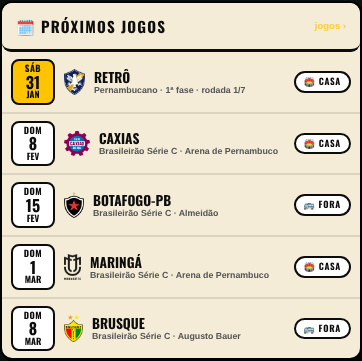
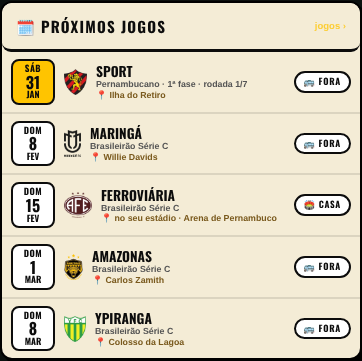
Brasil Oficial: economia real — TV pela divisão e porte do clube, prêmio pra todo acesso/queda real, campeões de cada série, e toda competição pagando por fase (estadual, Supercopa Rei, Copa do Brasil, Libertadores, Sul-Americana, Intercontinental) com linha própria no extrato; Próximos jogos mostra
Claude-Session: https://claude.ai/code/session_018Ap1zPCMVL9XeZJN3u93ZA

diff --git a/src/escalacao/pyramidseason.tsx b/src/escalacao/pyramidseason.tsx
@@ -119,6 +119,7 @@ import sedeObra from './img/sede-obra-loja.webp'
 import sedeCarreata from './img/sede-carreata.webp'
 import estadioNoite from './img/online-estadio-v25.webp'
 import { estadioDoClube } from './estadios-oficial'
+import { tvOficial, CAMPEAO_OFICIAL, ACESSO_OFICIAL, QUEDA_OFICIAL, ESTADUAL_OFICIAL, SUPERCOPA_REI_OFICIAL, LIBERTA_OFICIAL, SULA_OFICIAL, INTER_OFICIAL, CDB_OFICIAL, cdbOficialPorFim } from './economia-oficial'
 import sedeNoite from './img/sede-noite.webp'
 import sedeClube from './img/sede-clube.webp'
 import { FestaCampeao, TunelFinal, Trofeu, type CompId, type DestaqueFesta } from './competicoes-visual' // 🏆 festa do campeão + túnel da final na carreira (24/10) // 🛡 brasão do clube (desenhado por código, do NOME)
@@ -699,6 +700,46 @@ export function seasonRewards(tables: Record<Div, SimTeam[]>): Record<number, nu
     out[t.teamId] = delta
   })
   return out
+}
+// 💰 BRASIL OFICIAL · LIGA (18/11, `economia-oficial.ts`): campeão de cada série (o REAL: a C e a D têm final) + TODO clube que sobe
+// ganha o acesso e todo que cai desconta — pelo formato real, nunca o "top 4" da pirâmide inventada. Só clube de gente tem caixa.
+// `linhas` = o nome de cada prêmio no extrato (o dinheiro está em `rewards`; a queda fica só em `rewards`, que é desconto).
+export type PremioLinha = { mgr: number; coins: number; txt: string }
+export function premiosLigaOficial(tables: Record<Div, SimTeam[]>, fases: FasesOficiais, newPl: Record<string, string>, en: boolean): { rewards: Record<number, number>; linhas: PremioLinha[] } {
+  const rewards: Record<number, number> = {}, linhas: PremioLinha[] = []
+  const RANK: Record<string, number> = { A: 4, B: 3, C: 2, D: 1 }
+  const campeao: Record<string, string | undefined> = { A: tables.A?.[0]?.name, B: tables.B?.[0]?.name, C: fases.C.campeao, D: fases.D.campeao }
+  const serie = (d: string) => en ? `Série ${d}` : `Série ${d}`
+  for (const d of ['A', 'B', 'C', 'D'] as Div[]) for (const t of tables[d] ?? []) {
+    if (!t.human || t.teamId < 0) continue
+    const add = (v: number, txt?: string) => { rewards[t.teamId] = (rewards[t.teamId] ?? 0) + v; if (txt && v > 0) linhas.push({ mgr: t.teamId, coins: v, txt }) }
+    if (campeao[d] === t.name) add(CAMPEAO_OFICIAL[d] ?? 0, en ? `🏆 ${serie(d)} champions` : `🏆 Campeão da ${serie(d)}`)
+    const nd = newPl[teamKey(t)]
+    const r0 = RANK[d] ?? 0, r1 = nd ? (RANK[nd] ?? 0) : r0
+    if (r1 > r0) add(ACESSO_OFICIAL[d] ?? 0, en ? `🚀 Promotion to ${serie(nd!)}` : `🚀 Acesso pra ${serie(nd!)}`)
+    else if (r1 < r0 && nd) add(-(QUEDA_OFICIAL[d] ?? 0))
+  }
+  return { rewards, linhas }
+}
+// 🇧🇷 Copa do Brasil do Oficial: cada fase vale algo (contado do fim — `cdbOficialPorFim`), campeão 60; o artilheiro segue com o
+// bônus de sempre (`CB_SCORER_BONUS`, a linha dele sai de `artilheirosDaTemporada`)
+export function premiosCdbOficial(r: CopaBrasilResult, en: boolean): { rewards: Record<number, number>; linhas: PremioLinha[] } {
+  const rewards: Record<number, number> = {}, linhas: PremioLinha[] = []
+  const n = r.rounds.length
+  const fundo = new Map<number, { t: SimTeam; i: number }>()
+  const put = (t: SimTeam, i: number) => { if (!t.human || t.teamId < 0) return; const f = fundo.get(t.teamId); if (!f || i > f.i) fundo.set(t.teamId, { t, i }) }
+  for (const tie of r.round64?.ties ?? []) { put(tie.a, -1); put(tie.b, -1) }
+  r.rounds.forEach((rd, i) => { for (const tie of rd.ties) { put(tie.a, i); put(tie.b, i) } })
+  for (const [id, { t, i }] of fundo) {
+    const campeao = r.champion?.teamId === t.teamId && r.champion?.human
+    const v = campeao ? CDB_OFICIAL.campeao : cdbOficialPorFim(n - 1 - i)
+    const fase = campeao ? (en ? 'champions' : 'campeão') : i === n - 1 ? (en ? 'runners-up' : 'vice') : i >= 0 ? (en ? `out in the ${r.rounds[i].name}` : `caiu na ${r.rounds[i].name}`) : (en ? 'out in the first round' : 'caiu na 1ª fase')
+    rewards[id] = (rewards[id] ?? 0) + v
+    linhas.push({ mgr: id, coins: v, txt: `🇧🇷 Copa do Brasil · ${fase}` })
+  }
+  const ts = r.topScorer
+  if (ts?.human && ts.teamId >= 0) rewards[ts.teamId] = (rewards[ts.teamId] ?? 0) + CB_SCORER_BONUS
+  return { rewards, linhas }
 }
 // caixa-base por divisão (clubes de cima mais ricos) + os lucros das vendas do
 // mercado + prêmios. Também usado pra "curar" salas sem caixa.
@@ -2057,9 +2098,13 @@ export function computeIntercontinentalCarreira(libertadores: string, world: Rec
   return out && res ? { resultado: res, rounds: out.rounds } : null
 }
 /** 💰 prêmio da Intercontinental: a régua do Mundial da carreira internacional (vice +10 · campeão +25) */
-export function premioIntercontinental(res: ResultadoIntercontinental, nome: string): number {
-  return res.campeao === nome ? 25 : res.vice === nome ? 10 : 0
+// 💰 18/11: a régua nova do Oficial (`economia-oficial.ts`) — participou 10 · vice 20 · campeão 40
+export function premioIntercontinentalDet(res: ResultadoIntercontinental, nome: string): { v: number; fase: [string, string] } | null {
+  if (res.campeao === nome) return { v: INTER_OFICIAL.campeao, fase: ['campeão', 'champions'] }
+  if (res.vice === nome) return { v: INTER_OFICIAL.vice, fase: ['vice', 'runners-up'] }
+  return { v: INTER_OFICIAL.participou, fase: ['participou', 'took part'] }
 }
+export function premioIntercontinental(res: ResultadoIntercontinental, nome: string): number { return premioIntercontinentalDet(res, nome)?.v ?? 0 }
 export function computeSulaCarreira(vagas: VagasSula, daLiberta: { grupos: string[]; playoff: string[] }, world: Record<Div, SimTeam[]>, seed: number, seasonNo: number, capElite = 1.2, realGoals = false, m2On = false, versao?: VersaoM2): { resultado: ResultadoSula; rounds: CopaRound[] } | null {
   const fab = fabricaTimesOficiais(world, seed)
   if (!fab) return null
@@ -2083,22 +2128,39 @@ function guardaEstadualPag(seed: number, temporada: number, p: number) {
   try { localStorage.setItem(EST_PAG_KEY, JSON.stringify({ seed, t: temporada, p })) } catch { /* sem espaço: só não lembra */ }
 }
 export const ART_SULA_OFICIAL = 20
-export function premioSula(res: ResultadoSula, nome: string): number {
-  if (!res.classificacao.includes(nome)) return 0
-  if (res.campeao === nome) return 50
-  if (res.vice === nome) return 25
+// 💰 18/11: régua nova do Oficial — 1ª fase 3 · grupos 5 · playoffs 6 · oitavas 7 · quartas 10 · semi 15 · vice 25 · campeão 45
+export function premioSulaDet(res: ResultadoSula, nome: string): { v: number; fase: [string, string] } | null {
+  if (!res.classificacao.includes(nome)) return null
+  const S = SULA_OFICIAL
+  if (res.campeao === nome) return { v: S.campeao, fase: ['campeão', 'champions'] }
+  if (res.vice === nome) return { v: S.vice, fase: ['vice', 'runners-up'] }
   const caiuEm = (fase: string) => !!res.fases.find(f => f.nome === fase)?.confrontos.some(c => (c.a === nome || c.b === nome) && c.vencedor !== nome)
-  return caiuEm('Semifinal') ? 16 : caiuEm('Quartas de final') ? 10 : caiuEm('Oitavas de final') ? 6 : 4
+  const nosGrupos = !!res.fases.find(f => f.nome === 'Fase de grupos')?.tabelas.some(t => t.tabela.some(l => l.time === nome))
+  return caiuEm('Semifinal') ? { v: S.semi, fase: ['caiu na semifinal', 'out in the semi-final'] }
+    : caiuEm('Quartas de final') ? { v: S.quartas, fase: ['caiu nas quartas', 'out in the quarter-finals'] }
+    : caiuEm('Oitavas de final') ? { v: S.oitavas, fase: ['caiu nas oitavas', 'out in the round of 16'] }
+    : caiuEm('Playoffs') ? { v: S.playoffs, fase: ['caiu nos playoffs', 'out in the play-offs'] }
+    : nosGrupos ? { v: S.grupos, fase: ['caiu na fase de grupos', 'out in the group stage'] }
+    : { v: S.pre, fase: ['caiu na 1ª fase', 'out in the first round'] }
 }
+export function premioSula(res: ResultadoSula, nome: string): number { return premioSulaDet(res, nome)?.v ?? 0 }
 /** 💰 prêmio da Libertadores do Brasil Oficial pra um clube: a MESMA régua por etapa da Libertadores da carreira internacional
  *  (`summarizeInternationalCampaign`, Diego 01/10): participou 6 · oitavas 10 · quartas 14 · semi 20 · vice 30 · campeão 60. */
-export function premioLibertadores(res: ResultadoLiberta, nome: string): number {
-  if (!res.classificacao.includes(nome)) return 0
-  if (res.campeao === nome) return 60
-  if (res.vice === nome) return 30
+// 💰 18/11: régua nova do Oficial — pré 4 · grupos 8 · oitavas 12 · quartas 18 · semi 25 · vice 40 · campeão 80
+export function premioLibertadoresDet(res: ResultadoLiberta, nome: string): { v: number; fase: [string, string] } | null {
+  if (!res.classificacao.includes(nome)) return null
+  const L = LIBERTA_OFICIAL
+  if (res.campeao === nome) return { v: L.campeao, fase: ['campeão', 'champions'] }
+  if (res.vice === nome) return { v: L.vice, fase: ['vice', 'runners-up'] }
   const caiuEm = (fase: string) => !!res.fases.find(f => f.nome === fase)?.confrontos.some(c => (c.a === nome || c.b === nome) && c.vencedor !== nome)
-  return caiuEm('Semifinal') ? 20 : caiuEm('Quartas de final') ? 14 : caiuEm('Oitavas de final') ? 10 : 6
+  const nosGrupos = !!res.fases.find(f => f.nome === 'Fase de grupos')?.tabelas.some(t => t.tabela.some(l => l.time === nome))
+  return caiuEm('Semifinal') ? { v: L.semi, fase: ['caiu na semifinal', 'out in the semi-final'] }
+    : caiuEm('Quartas de final') ? { v: L.quartas, fase: ['caiu nas quartas', 'out in the quarter-finals'] }
+    : caiuEm('Oitavas de final') ? { v: L.oitavas, fase: ['caiu nas oitavas', 'out in the round of 16'] }
+    : nosGrupos ? { v: L.grupos, fase: ['caiu na fase de grupos', 'out in the group stage'] }
+    : { v: L.pre, fase: ['caiu na pré-Libertadores', 'out in the qualifying rounds'] }
 }
+export function premioLibertadores(res: ResultadoLiberta, nome: string): number { return premioLibertadoresDet(res, nome)?.v ?? 0 }
 function computeCompeticaoOficial(cfg: { nome: string; prefixo: string; tag: string; sal: number; slot: number; sim: (joga: Joga, pen: Penaltis) => ResultadoEstadual | null }, world: Record<Div, SimTeam[]>, seed: number, seasonNo: number, capElite = 1.2, realGoals = false, lineups: RoundLineups = {}, m2On = false, versao?: VersaoM2): { resultado: ResultadoEstadual; rounds: CopaRound[] } | null {
   const fab = fabricaTimesOficiais(world, seed)
   if (!fab) return null
@@ -3108,7 +3170,9 @@ function TVContrato({ div, clube, foco, onFocoFim }: { div: string; clube: strin
   const [brilho, setBrilho] = useState(false) // ✨ destaque de chegada (veio do banner)
   const cardRef = useRef<HTMLDivElement>(null)
   const temporada = state.seasonNo ?? 1
-  const cotaDiv = TV_DEGRAUS.find(([d]) => d === div)?.[1] ?? 0
+  // 🇧🇷 18/11: no Oficial a escada é D·C·B·A com o valor do PORTE do seu clube (a mesma régua que paga)
+  const degraus: [string, number][] = state.oficial ? (['D', 'C', 'B', 'A'] as const).map(d => [d, tvOficial(d, clube)]) : TV_DEGRAUS
+  const cotaDiv = degraus.find(([d]) => d === div)?.[1] ?? 0
   // 🛟 SÓ CARREIRA SOLO (bug pego em 23/08, conferindo o caso do amigo do Diego):
   // este card também renderiza na CARREIRA ONLINE, mas o crédito (TV_EXTRA_CREDIT)
   // é recusado pelo reducer no online — e o `tv_resgatar` já teria marcado a linha
@@ -3187,7 +3251,7 @@ function TVContrato({ div, clube, foco, onFocoFim }: { div: string; clube: strin
       <div style={{ padding: '11px 12px' }}>
         {sec(tr('🖋 Seu contrato — paga sozinho, todo fim de temporada', '🖋 Your deal — pays by itself, every end of season'))}
         <div style={{ display: 'flex', gap: 5, marginBottom: 8 }}>
-          {TV_DEGRAUS.map(([d, v]) => {
+          {degraus.map(([d, v]) => {
             const eu = d === div
             return (
               <div key={d} style={{ flex: 1, textAlign: 'center', border: `2.5px solid ${eu ? INK : 'rgba(12,12,12,.25)'}`, borderRadius: 10, padding: '4px 2px', background: eu ? GOLD : '#FBF6E9', boxShadow: eu ? `2px 2px 0 ${INK}` : undefined, opacity: eu ? 1 : .7 }}>
@@ -10220,8 +10284,22 @@ export function PyramidSeasonScreen() {
   useEffect(() => {
     if (!estadualOn || copaRound < preRounds.length) return
     const r = estadualCalc?.resultado
+    // 💰 18/11: o que o seu clube ganhou na pré-temporada, com o nome de cada prêmio (cai no caixa na hora)
+    const premios: { coins: number; txt: string }[] = []
+    const eu = meuNomeLib, en = getLang() === 'en'
+    const sr = supercopaRei?.ties[0]
+    if (sr && (sr.a.name === eu || sr.b.name === eu)) {
+      const ganhou = (sr.win === 'a' ? sr.a : sr.b).name === eu
+      premios.push({ coins: ganhou ? SUPERCOPA_REI_OFICIAL.campeao : SUPERCOPA_REI_OFICIAL.vice, txt: `🏆 Supercopa Rei · ${ganhou ? (en ? 'champions' : 'campeão') : (en ? 'runners-up' : 'vice')}` })
+    }
+    if (r && r.classificacao.includes(eu)) {
+      const caiuSemi = r.fases.some(f => /Semi/i.test(f.nome) && f.confrontos.some(c => (c.a === eu || c.b === eu) && c.vencedor !== eu))
+      const E = ESTADUAL_OFICIAL, nomeE = NOME_ESTADUAL[estadualNome!] ?? estadualNome!
+      const [v, fase] = r.campeao === eu ? [E.campeao, en ? 'champions' : 'campeão'] : r.vice === eu ? [E.vice, en ? 'runners-up' : 'vice'] : caiuSemi ? [E.semi, en ? 'semi-finalist' : 'semifinal'] : [E.participou, en ? 'took part' : 'participou']
+      premios.push({ coins: v as number, txt: `🏟 ${nomeE} · ${fase}` })
+    }
     // (sem estadual no modo, a marca vale pra pré-temporada: a Supercopa já foi jogada)
-    dispatch({ type: 'ESTADUAL_FEITO', estadual: { temporada: state.seasonNo ?? 1, nome: r ? estadualNome! : '', campeao: r?.campeao ?? '', vice: r?.vice ?? '', caem: r?.caem ?? [], classificacao: r?.classificacao ?? [] } })
+    dispatch({ type: 'ESTADUAL_FEITO', premios, estadual: { temporada: state.seasonNo ?? 1, nome: r ? estadualNome! : '', campeao: r?.campeao ?? '', vice: r?.vice ?? '', caem: r?.caem ?? [], classificacao: r?.classificacao ?? [] } })
     setEstadualOn(false); setCopaRound(0)
   }, [estadualOn, preRounds, copaRound]) // eslint-disable-line react-hooks/exhaustive-deps
   const copaFinished = done && (!copa || nCopaRounds === 0 || copaRound >= nCopaRounds)
@@ -10561,9 +10639,12 @@ export function PyramidSeasonScreen() {
     const conquistas = conquistasDaTemporada(copaBrOk && copaBR ? null : copa, copaBrOk && copaBR ? copaBR : null, copaBrOk && copaBR ? supercopaTie : null) // 🎯 metas do Master
     // 🏆 Brasil Oficial: o prêmio da Libertadores (só do seu clube, que é quem tem caixa) entra junto
     const lib: Record<number, number> = {}
-    if (libertaMinha && libertaCalc) { const v = premioLibertadores(libertaCalc.resultado, meuNomeLib); if (v) lib[youId] = v }
-    if (sulaMinha && sulaCalc) { const v = premioSula(sulaCalc.resultado, meuNomeLib); if (v) lib[youId] = (lib[youId] ?? 0) + v }
-    if (interMinha && interCalc) { const v = premioIntercontinental(interCalc.resultado, meuNomeLib); if (v) lib[youId] = (lib[youId] ?? 0) + v }
+    const en = getLang() === 'en'
+    // 💰 18/11: no Oficial cada prêmio de competição tem LINHA PRÓPRIA no extrato ("🌎 Libertadores · caiu nas quartas")
+    const linhaComp = (emoji: string, nomeC: string, d: { v: number; fase: [string, string] } | null) => { if (!d?.v) return; lib[youId] = (lib[youId] ?? 0) + d.v; artilheiros.push({ mgr: youId, coins: d.v, txt: `${emoji} ${nomeC} · ${en ? d.fase[1] : d.fase[0]}` }) }
+    if (libertaMinha && libertaCalc) linhaComp('🌎', 'Libertadores', premioLibertadoresDet(libertaCalc.resultado, meuNomeLib))
+    if (sulaMinha && sulaCalc) linhaComp('🌎', en ? 'Sudamericana' : 'Sul-Americana', premioSulaDet(sulaCalc.resultado, meuNomeLib))
+    if (interMinha && interCalc) linhaComp('🌐', 'Intercontinental', premioIntercontinentalDet(interCalc.resultado, meuNomeLib))
     // 🥇 artilheiro da Libertadores (30 🪙) e da Sul-Americana (20 🪙) — Diego 16/11 *"Sim"*; só clube de gente tem caixa
     for (const [lista, moedas, nomeC] of [[conmebolScorers.liberta, ART_LIBERTA_OFICIAL, 'Libertadores'], [conmebolScorers.sula, ART_SULA_OFICIAL, getLang() === 'en' ? 'Sudamericana' : 'Sul-Americana']] as const) {
       const a = [...lista].sort((x, y) => y.goals - x.goals || x.name.localeCompare(y.name))[0]
@@ -10572,7 +10653,14 @@ export function PyramidSeasonScreen() {
       const g = getLang() === 'en' ? `${a.goals} goal${a.goals === 1 ? '' : 's'}` : `${a.goals} gol${a.goals === 1 ? '' : 's'}`
       artilheiros.push({ mgr: a.teamId, coins: moedas, txt: getLang() === 'en' ? `🥇 Top scorer of the ${nomeC}: ${a.name} (${g})` : `🥇 Artilheiro da ${nomeC}: ${a.name} (${g})` })
     }
-    dispatch({ type: 'CLOSE_SEASON_BOOKS', rewards: mrg(mrg(mrg(seasonRewards(tables), sb.rewards), cr.rewards), lib), stadiumOcc, finalPos, artilheiros, conquistas })
+    // 🇧🇷 Oficial: liga pelo formato REAL (campeão de cada série, todo acesso, toda queda) e Copa do Brasil fase a fase (18/11)
+    let liga = seasonRewards(tables), copaR = cr.rewards
+    if (state.oficial && oficialEfetivo) {
+      const lo = premiosLigaOficial(tables, oficialEfetivo, promocoesOficial(tables, oficialEfetivo, state.seed, clubesSemDivisao()), en)
+      liga = lo.rewards; artilheiros.unshift(...lo.linhas)
+      if (copaBR) { const co = premiosCdbOficial(copaBR, en); copaR = co.rewards; artilheiros.push(...co.linhas) }
+    }
+    dispatch({ type: 'CLOSE_SEASON_BOOKS', rewards: mrg(mrg(mrg(liga, sb.rewards), copaR), lib), stadiumOcc, finalPos, artilheiros, conquistas })
     // eslint-disable-next-line react-hooks/exhaustive-deps
   }, [copaFinished, state.booksSeason, state.seasonNo])
   // 🏛 MULTICLUBES: momento SEGURO pra trocar = nenhuma rodada nem Copa animando na
@@ -12481,7 +12569,8 @@ export function PyramidSeasonScreen() {
           const est = ehPaginaEstadual(pg.name)
           const partes = est ? pg.name.slice(ESTADUAL_PREFIXO.length).split(' · ') : [pg.name]
           const nome = est ? (NOME_ESTADUAL[partes[0]] ?? partes[0]) : pg.name
-          agenda.push({ dia: diaPreTemporada(sn), comp: [nome, nome], fase: est ? partes.slice(1).join(' · ') : undefined, ...advDe(tie.a, tie.b), arte: 'copaBr' })
+          const ld = advDe(tie.a, tie.b)
+          agenda.push({ dia: diaPreTemporada(sn), comp: [nome, nome], fase: est ? partes.slice(1).join(' · ') : undefined, onde: state.oficial ? estadioDoClube(ld.casa ? euNome : ld.adv).nome : undefined, ...ld, arte: 'copaBr' })
         }
       }
       // ⚽ a liga: os próximos jogos da fase que está correndo
@@ -12492,7 +12581,7 @@ export function PyramidSeasonScreen() {
           const par = parDaRodada(r)
           if (!par) continue
           const lado = advDe(par[0], par[1])
-          agenda.push({ dia: diaDaRodada(sn, r), comp: ligaNome, ...lado, fase: state.oficial ? estadioDoClube(lado.casa ? euNome : lado.adv).nome : undefined }) // 🏟 no Oficial, o estádio do jogo
+          agenda.push({ dia: diaDaRodada(sn, r), comp: ligaNome, ...lado, onde: state.oficial ? estadioDoClube(lado.casa ? euNome : lado.adv).nome : undefined }) // 🏟 no Oficial, ONDE é o jogo (o estádio do mandante)
           n++
         }
       }
@@ -13259,7 +13348,7 @@ export function PyramidSeasonScreen() {
           // compartilhado).
           if (temTV) fila.push({
             key: 'tv', render: () => {
-              const cota = TV_COTA[me!.div] ?? 0 // 18/11: era uma lista à mão (5/10/15/20) que mentia — a cota que PAGA é a `TV_COTA` (20/30/40/50)
+              const cota = state.oficial ? tvOficial(me!.div, state.managers[state.youIdx]?.teamName ?? '') : (TV_COTA[me!.div] ?? 0) // 18/11: era uma lista à mão (5/10/15/20) que mentia — agora lê a MESMA régua que paga (`TV_COTA`; no Oficial, `tvOficial`)
               const primeira = !(state.tvBannerSeen ?? []).length
               return (
                 <div style={{ position: 'relative', overflow: 'hidden', background: 'linear-gradient(150deg,#2b2b2b,#0C0C0C)', border: `4px solid ${INK}`, borderRadius: 16, boxShadow: `4px 4px 0 ${INK}`, padding: 14, marginBottom: 12, color: '#fff' }}>

diff --git a/src/escalacao/store.tsx b/src/escalacao/store.tsx
@@ -555,10 +555,12 @@ function applyTVIncome(s: EscState) {
   const ids = online ? s.managers.filter(m => m.isHuman).map(h => h.id) : (dorm != null ? [y, dorm] : [y])
   for (const id of ids) {
     const div = s.careerPlacements?.[`m${id}`] ?? s.careerDivision ?? 'V'
-    const cota = TV_COTA[div] ?? 0
+    // 🇧🇷 18/11: no Brasil Oficial a TV paga pela divisão E pelo porte do clube (`economia-oficial.ts`)
+    const nomeClube = s.managers.find(m => m.id === id)?.teamName ?? ''
+    const cota = s.oficial ? tvOficial(div, nomeClube) : (TV_COTA[div] ?? 0)
     if (cota > 0) {
       s.careerCoins = { ...(s.careerCoins ?? {}), [id]: (s.careerCoins?.[id] ?? 0) + cota }
-      logFin(s, 'reward', '📺 Cota de TV', cota, undefined, id, true)
+      logFin(s, 'reward', s.oficial ? tr(`📺 Cota de TV · Série ${div}${div === 'A' || div === 'B' ? ` · ${NOME_PORTE[porteOficial(nomeClube)][0]}` : ''}`, `📺 TV money · Série ${div}${div === 'A' || div === 'B' ? ` · ${NOME_PORTE[porteOficial(nomeClube)][1]}` : ''}`) : '📺 Cota de TV', cota, undefined, id, true)
     }
   }
 }
@@ -1140,6 +1142,7 @@ import { COPAS_REGIONAIS, ehCopaRegional } from './copa-regional' // 🏟 cop
 import { CARTAS_REGIONAIS } from './cartas-regionais'
 import { tr, getLang } from './lang' // 🌐 BR/EN (12/09): avisos da sala online e giro da liga
 import { bicoValor, bicoElegivel, bicoMarcaDe } from './bico'
+import { tvOficial, porteOficial, NOME_PORTE } from './economia-oficial'
 import { FORNECEDORES, PRECOS as PRECOS_LOJA, PRECO_PADRAO, fornAtivo, fornLiberado, fornPorTemporada, fornValor, fornecedorDe, fornBonusLoja, lojaConstruida, calculaVendas } from './loja'
 import { masterMetaOferta, masterMetaBatidaFecho, masterMetaBatidaIntl, masterIntlAberto, masterCaiu, masterRescinde, masterOfertaRenovacao, masterMarcaFora, MASTER_METAS } from './master-historia' // 🏆📞 Master com história (17/10)
 import { mesclaClubes, type GavetaPublica } from './carreira-online-v2' // 🌐 carreira online v2 (19/10)
@@ -5894,7 +5897,7 @@ type Action =
   | { type: 'GUARDA_M2'; novos: Record<string, import('./motor2/carreira').GuardadoM2> } // 💾 resultados do motor novo vão pro save
   | { type: 'OFICIAL_PRONTO' } // 🇧🇷 as cartas do Brasil Oficial baixaram (baralho-oficial-carga.ts)
   | { type: 'CAMPEOES_OFICIAIS'; campeoes: { temporada: number; serieA: string; serieAVice: string; copa: string; copaVice: string; serieATop?: string[]; liberta?: string; libertaVice?: string; sula?: string; intercontinental?: string } } // 🏆 Brasil Oficial: campeões da temporada (pra Supercopa Rei)
-  | { type: 'ESTADUAL_FEITO'; estadual: { temporada: number; nome: string; campeao: string; vice: string; caem: string[]; classificacao: string[] } } // 🏟 Brasil Oficial: o estadual da temporada terminou na tela
+  | { type: 'ESTADUAL_FEITO'; estadual: { temporada: number; nome: string; campeao: string; vice: string; caem: string[]; classificacao: string[] }; /** 💰 18/11: prêmios do estadual/Supercopa Rei (pagos na hora) */ premios?: { coins: number; txt: string }[] } // 🏟 Brasil Oficial: o estadual da temporada terminou na tela
   | { type: 'LIGA_MOTOR2' } // ⚽🧠 carreira: o motor novo passa a decidir o seu jogo a partir do PRÓXIMO (uma vez; nunca desliga sozinho)
   | { type: 'LIGA_RECEPCAO_M2' } // somente a conta autorizada, a partir do próximo jogo de liga
   | { type: 'SET_PENALTY'; mgrId: number; round: number; scored: boolean; taker: string } // ⚽ carreira offline: grava o resultado do pênalti decisivo (só aquele jogo; round = índice 0-based do jogo)
@@ -11022,7 +11025,16 @@ function reducerBase(state: EscState, action: Action): EscState {
     case 'ESTADUAL_FEITO': {
       // 🏟 grava UMA vez por temporada (a tela pode mandar de novo num recarregar)
       if (!s.oficial || (s.oficialEstaduais ?? []).some(e => e.temporada === action.estadual.temporada)) return s
-      return { ...s, oficialEstaduais: [...(s.oficialEstaduais ?? []), action.estadual].slice(-60) }
+      const out = { ...s, oficialEstaduais: [...(s.oficialEstaduais ?? []), action.estadual].slice(-60) }
+      // 💰 18/11: o prêmio do estadual e da Supercopa Rei cai NA HORA (a tela calcula com a régua de `economia-oficial.ts`;
+      // aqui só credita, uma vez — a mesma trava da temporada acima)
+      const eu = out.managers[out.youIdx]?.id ?? out.youIdx
+      for (const p of action.premios ?? []) {
+        if (!(p.coins > 0)) continue
+        out.careerCoins = { ...(out.careerCoins ?? {}), [eu]: (out.careerCoins?.[eu] ?? 0) + p.coins }
+        logFin(out, 'reward', p.txt, p.coins, undefined, eu)
+      }
+      return out
     }
     case 'OFICIAL_PRONTO': {
       // 🇧🇷 as cartas do Brasil Oficial acabaram de baixar: reancora o baralho e roda a atualização de ficha que ficou esperando

diff --git a/src/escalacao/economia-oficial.ts b/src/escalacao/economia-oficial.ts
@@ -1,0 +1,47 @@
+// 💰 ECONOMIA DO BRASIL OFICIAL (18/11, aprovada pelo Diego: *"Ok"*). Pedido dele: *"TV pela divisão e pelo tamanho do clube.
+// Prêmio de subir e de cair pelo formato real de cada série… não top 4: se sobem 6 da Série D, ganham os 6… rever prêmios de
+// campeão da Série D (não tem várzea mais), C, B… todas as competições: vai sendo eliminado mas ganha alguma coisa, mesmo que
+// seja merreca… sempre deixando claro pro usuário"*. A carreira de sempre NÃO usa nada daqui (segue `TV_COTA`/`seasonRewards`).
+// Toda régua mora AQUI — a tela (aviso da TV, cartão da Rede Martelo, linhas do extrato) e o caixa leem as mesmas constantes.
+
+/** 🏟 PORTE DO CLUBE (a TV da Série A paga pelo tamanho, como no Brasileirão de verdade):
+ *  · grande = os "doze grandes" do futebol brasileiro (pt.wikipedia: "Clubes grandes do futebol brasileiro");
+ *  · médio = quem já foi campeão brasileiro ou da Copa do Brasil (listas de campeões na pt.wikipedia) e não é dos 12;
+ *  · pequeno = o resto. */
+export const GRANDES_OFICIAL = new Set(['Flamengo', 'Corinthians', 'Palmeiras', 'São Paulo', 'Santos', 'Vasco', 'Fluminense', 'Botafogo', 'Grêmio', 'Internacional', 'Atlético-MG', 'Cruzeiro'])
+export const MEDIOS_OFICIAL = new Set(['Bahia', 'Sport', 'Athletico-PR', 'Coritiba', 'Guarani', 'Criciúma', 'Juventude', 'Paulista', 'Santo André'])
+export type Porte = 'grande' | 'medio' | 'pequeno'
+export const porteOficial = (nome: string): Porte => GRANDES_OFICIAL.has(nome) ? 'grande' : MEDIOS_OFICIAL.has(nome) ? 'medio' : 'pequeno'
+export const NOME_PORTE: Record<Porte, [string, string]> = { grande: ['clube grande', 'big club'], medio: ['clube médio', 'mid-sized club'], pequeno: ['clube pequeno', 'small club'] }
+
+/** 📺 cota de TV por temporada: D 20 · C 30 · B 40 (os 12 grandes 45) · A grande 70 · médio 55 · pequeno 45. Fora das séries = 0. */
+export function tvOficial(div: string, nome: string): number {
+  const p = porteOficial(nome)
+  if (div === 'A') return p === 'grande' ? 70 : p === 'medio' ? 55 : 45
+  if (div === 'B') return p === 'grande' ? 45 : 40
+  if (div === 'C') return 30
+  if (div === 'D') return 20
+  return 0
+}
+
+/** 🏆 liga: campeão da série · cada clube que SOBE (pela série de onde subiu) · cada clube que CAI (desconta, pela série de onde caiu) */
+export const CAMPEAO_OFICIAL: Record<string, number> = { A: 80, B: 50, C: 35, D: 25 }
+export const ACESSO_OFICIAL: Record<string, number> = { B: 30, C: 20, D: 15 }
+export const QUEDA_OFICIAL: Record<string, number> = { A: 20, B: 15, C: 10 }
+
+/** as copas: quanto vale cair em cada fase (quem cai cedo ganha a merreca, ninguém sai de mão vazia) */
+export const ESTADUAL_OFICIAL = { participou: 2, semi: 4, vice: 6, campeao: 10 }
+export const SUPERCOPA_REI_OFICIAL = { vice: 10, campeao: 20 }
+export const LIBERTA_OFICIAL = { pre: 4, grupos: 8, oitavas: 12, quartas: 18, semi: 25, vice: 40, campeao: 80 }
+export const SULA_OFICIAL = { pre: 3, grupos: 5, playoffs: 6, oitavas: 7, quartas: 10, semi: 15, vice: 25, campeao: 45 }
+export const INTER_OFICIAL = { participou: 10, vice: 20, campeao: 40 }
+/** 🇧🇷 Copa do Brasil, contando do FIM (0 = perdeu a final): vice 35 · semi 20 · quartas 12 · oitavas 8 · e antes disso 6, 5, 4, 3, 2…
+ *  Campeão 60. */
+export const CDB_OFICIAL = { campeao: 60, vice: 35, semi: 20, quartas: 12, oitavas: 8 }
+export function cdbOficialPorFim(doFim: number): number {
+  if (doFim <= 0) return CDB_OFICIAL.vice
+  if (doFim === 1) return CDB_OFICIAL.semi
+  if (doFim === 2) return CDB_OFICIAL.quartas
+  if (doFim === 3) return CDB_OFICIAL.oitavas
+  return Math.max(2, 10 - doFim)
+}

diff --git a/src/escalacao/central.tsx b/src/escalacao/central.tsx
@@ -43,7 +43,7 @@ const G_OURO = 'linear-gradient(160deg,#FFE79A,#FFC400 40%,#E8A200 70%,#FFDD70)'
 export type CentralJogo = { h: string; a: string; hg: number; ag: number; hId: number; aId: number }
 export type CentralArte = 'estadio' | 'copaBr' | 'copaLeg' | 'super' | 'liberta' | 'champions' | 'mundial' | 'mundo'
 /** 🗓 18/11: a agenda é a lista dos PRÓXIMOS JOGOS do seu clube — data, competição, fase e adversário (`casa` null = mata-mata, ida e volta) */
-export type CentralAgenda = { dia: number; comp: [string, string]; fase?: string; adv: string; casa: boolean | null; arte?: 'copaBr' | 'liberta' }
+export type CentralAgenda = { dia: number; comp: [string, string]; fase?: string; /** 📍 onde é o jogo (o estádio do mandante — Brasil Oficial) */ onde?: string; adv: string; casa: boolean | null; arte?: 'copaBr' | 'liberta' }
 export type RaioX = {
   nome: string
   formacao: string
@@ -440,6 +440,7 @@ export function CentralCarreira(p: CentralProps) {
                 <span style={{ fontSize: 11, lineHeight: 1.2, minWidth: 0, flex: 1 }}>
                   <b style={{ ...OSW, fontSize: 13.5, display: 'block', overflow: 'hidden', textOverflow: 'ellipsis', whiteSpace: 'nowrap' }}>{a.adv}</b>
                   <small style={{ color: '#555', fontWeight: 700, display: 'block', overflow: 'hidden', textOverflow: 'ellipsis', whiteSpace: 'nowrap' }}>{en ? a.comp[1] : a.comp[0]}{a.fase ? ` · ${a.fase}` : ''}</small>
+                  {a.onde && <small style={{ color: '#7a5a1e', fontWeight: 800, display: 'block', overflow: 'hidden', textOverflow: 'ellipsis', whiteSpace: 'nowrap' }}>📍 {a.casa ? t('no seu estádio', 'at your ground') + ' · ' : ''}{a.onde}</small>}
                 </span>
                 {a.casa != null && <Chip bg="#fff">{a.casa ? t('🏟 casa', '🏟 home') : t('🚌 fora', '🚌 away')}</Chip>}
               </div>

diff --git a/docs/pendencias.md b/docs/pendencias.md
@@ -31,10 +31,14 @@
     aparece o da TV"*): a TV SAIU da pré-temporada. O aviso dela aparece só DEPOIS do 1º jogo (aba Jogos), uma vez por divisão.
     🐛 E o aviso MENTIA o valor: mostrava D 5 · C 10 · B 15 · A 20 (lista à mão) e o caixa paga D 20 · C 30 · B 40 · A 50
     (`TV_COTA`, régua de 15/09); também dizia "direto no caixa" e a cota cai no FIM da temporada. Agora lê `TV_COTA` e diz quando paga.
-  · ⏳ PROPOSTA pendente (Diego: *"tem que ver esse contrato de TV com base nas divisões, com base no time… reformular valores de
-    moeda, de premiação com base na divisão"*): no Brasil Oficial a TV e os prêmios seguirem o real — TV por divisão E tamanho do
-    clube (grande ganha mais, como no Brasileirão de verdade) e o prêmio de acesso/queda pelo formato real de cada série (hoje o
-    "top 4" é o da pirâmide inventada). Esperando o OK dele antes de mexer em valor.
+  · ✅ 18/11 ECONOMIA DO BRASIL OFICIAL (aprovada: *"Ok"*), em `economia-oficial.ts` (régua única; a carreira de sempre não muda):
+    TV D 20 · C 30 · B 40 (12 grandes 45) · A grande 70 / médio 55 / pequeno 45 (grande = 12 grandes; médio = campeão brasileiro
+    ou da Copa do Brasil). Liga: campeão D 25 · C 35 · B 50 · A 80 (o REAL: C e D pela final); TODO clube que sobe D→C 15 · C→B 20 ·
+    B→A 30; todo que cai A −20 · B −15 · C −10. Estadual 2/4/6/10 e Supercopa Rei 10/20 pagos NA HORA (fim da pré-temporada).
+    Copa do Brasil fase a fase (…3·4·5·6 · oitavas 8 · quartas 12 · semi 20 · vice 35 · campeão 60). Libertadores pré 4 · grupos 8 ·
+    oitavas 12 · quartas 18 · semi 25 · vice 40 · campeão 80. Sul-Americana 3·5·6·7·10·15·25·45. Intercontinental 10/20/40.
+    Cada prêmio tem LINHA PRÓPRIA no extrato ("🌎 Libertadores · caiu nas quartas"). O aviso e o cartão da TV leem a mesma régua.
+    ⏳ Falta: o aviso "💰 você ganhou +X" NA HORA da eliminação de cada copa (hoje aparece no extrato do fim da temporada).
   · 🏟 18/11 (Diego: *"todos os times do jogo deveriam ter nome do estádio… o ideal é que sejam os nomes reais"*): os 228 clubes do
     Oficial ganharam o estádio REAL de 2026, todos com fonte (`estadios-oficial.ts`, lista em `docs/brasil-oficial/estadios.md`).
     Sem fonte → "Estádio do <clube>" (`inventado`), liberado por ele — hoje nenhum caiu nisso. Decididos: Palmeiras = Nubank Parque,

diff --git a/CLAUDE.md b/CLAUDE.md
@@ -389,6 +389,9 @@ As sessões não se veem — o repo é a memória comum. Então TODA sessão dev
   🃏 **TODO CLUBE DO MODO TEM CARTAS DE JOGADOR REAL** (15/11, *"todos têm que ter cartas… se não achar jogadores famosos do time
   dele, bota os jogadores reais"*): nada de clube "sem cartas" jogando pela força — vale Série D, estaduais e Copa do Brasil.
   Famoso do clube primeiro; não achou, elenco atual real. As cartas do modo nunca vão pra Partida Rápida nem pro online.
+  💰 **ECONOMIA DO OFICIAL (18/11, *"Ok"*)**: TV pela divisão E pelo porte do clube; prêmio de subir/cair pra TODO clube que sobe/cai
+  no formato real (*"se sobem 6 da Série D, ganham os 6"*); toda competição paga por fase (*"vai sendo eliminado mas ganha alguma coisa,
+  mesmo que seja merreca… sempre deixando claro pro usuário"*). Régua única em `economia-oficial.ts`.
   🚫 **Só se escolhe clube das Séries A–D** (15/11, *"não pode"*): clube só de estadual/Copa existe no modo como rival, nunca como o clube do usuário.
 - **Segurança acima de feature**: prefere bloquear com aviso claro a deixar
   acontecer algo estranho. Toda trava explica O PORQUÊ e O CAMINHO ("faltam 2
